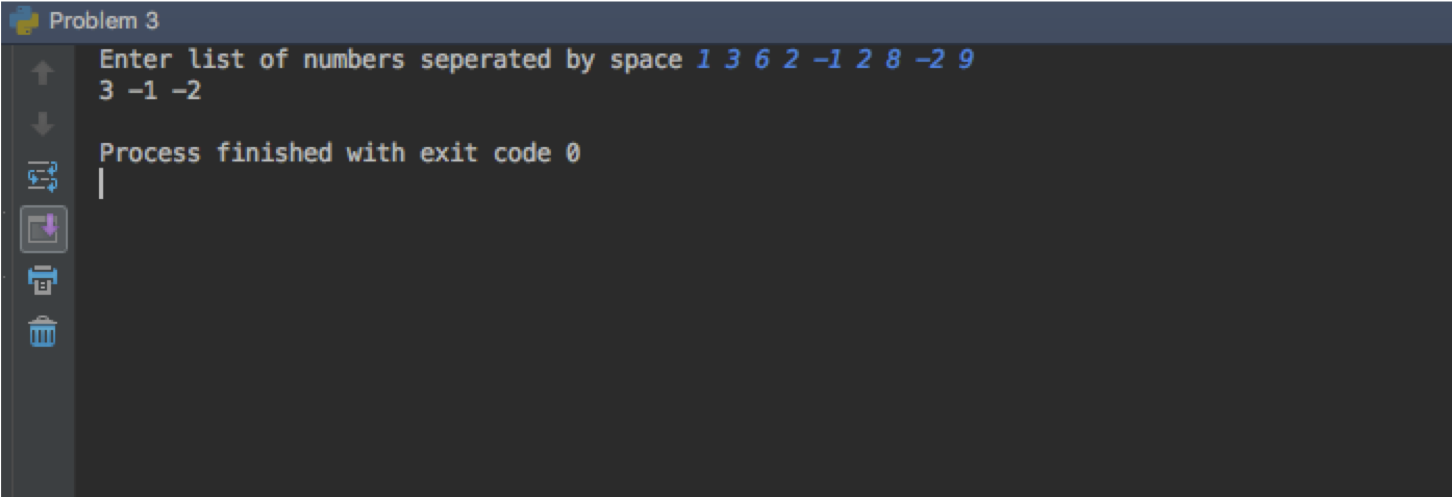
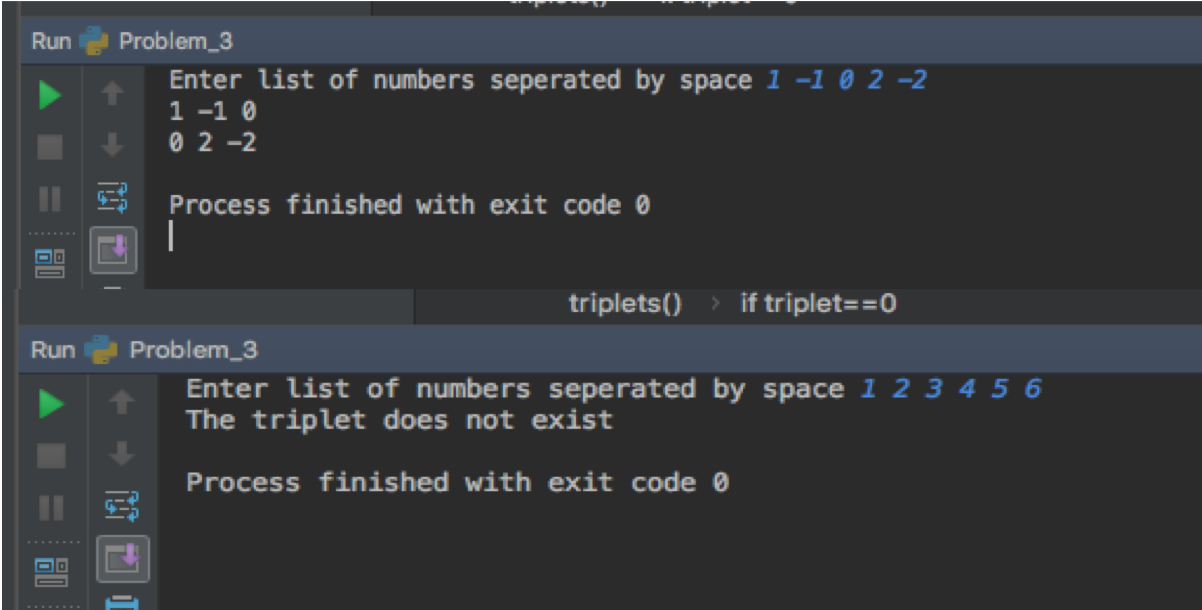
Add files via upload

diff --git a/Assignment 1/Problem_3.py b/Assignment 1/Problem_3.py
@@ -3,11 +3,15 @@ def triplets(user_input):#fucntion to find the triplet
     string_list=[]
     #we will iterate through the string and check if he sum of triplets will be zero. Since we have triplets so we will be using 3 lops.
     #the loop varies in all three loops as we dont want to repeat combination
+    triplet=0# to check for existence of triplets. 0 for fal 1 for true. Initialize it with 0
     for i in range(0,len(string_split)-2):
         for j in range(i+1,len(string_split)-1):
             for k in range(j+1,len(string_split)):
                 if int(string_split[i]) +int(string_split[j])+int(string_split[k])==0:
                     print string_split[i] , string_split[j] , string_split[k]
+                    triplet=1 # if triplet found initialize it with 1
+    if triplet==0:
+        print("The triplet does not exist")
 
 user_input= raw_input("Enter list of numbers seperated by space ") #Assuming the input will be given by user
 triplets(user_input)#calling the main function

diff --git a/Assignment 1/Problem_4.py b/Assignment 1/Problem_4.py
@@ -31,7 +31,8 @@ def main(python_student_list,web_application_list): #main function
 
 python_student_list=['Rohit Singh', 'Shuai Zhao', 'Jack Daniels','Chivas Regal','Glen'] #list of student in python class
 web_application_list=['Rohit Singh','Budlight','Tank','Chivas Regal'] #list of students in web application class
-
+print "Student in Python Class ", python_student_list
+print "Student in Web Application Class ",web_application_list
 
 main(python_student_list,web_application_list)#calling the main function
 
